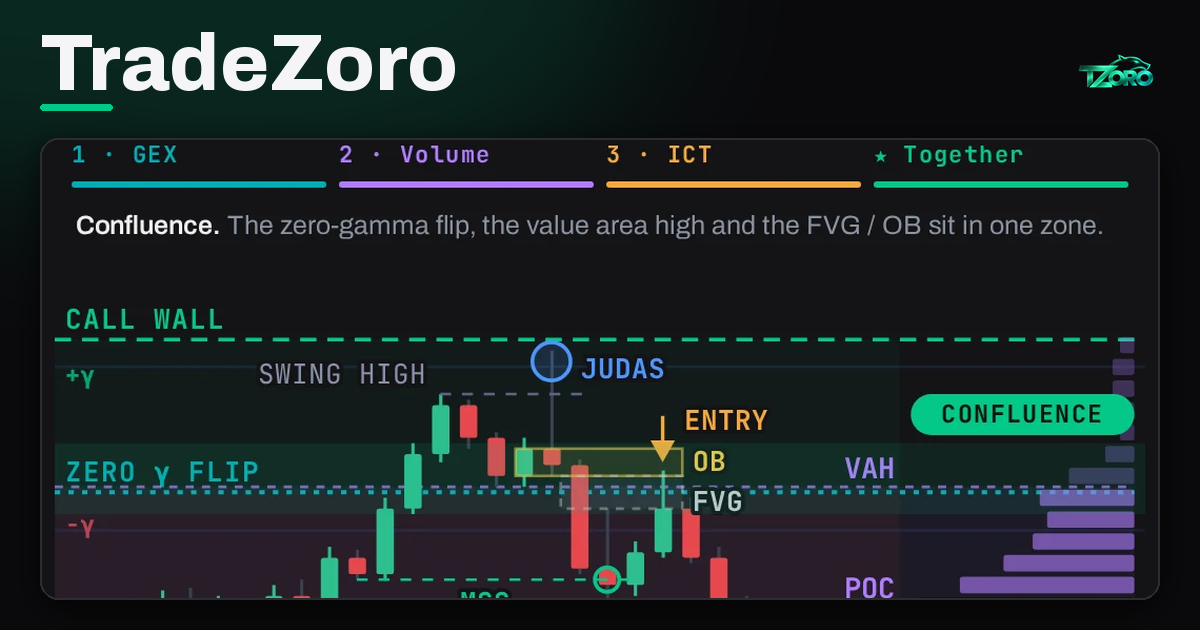
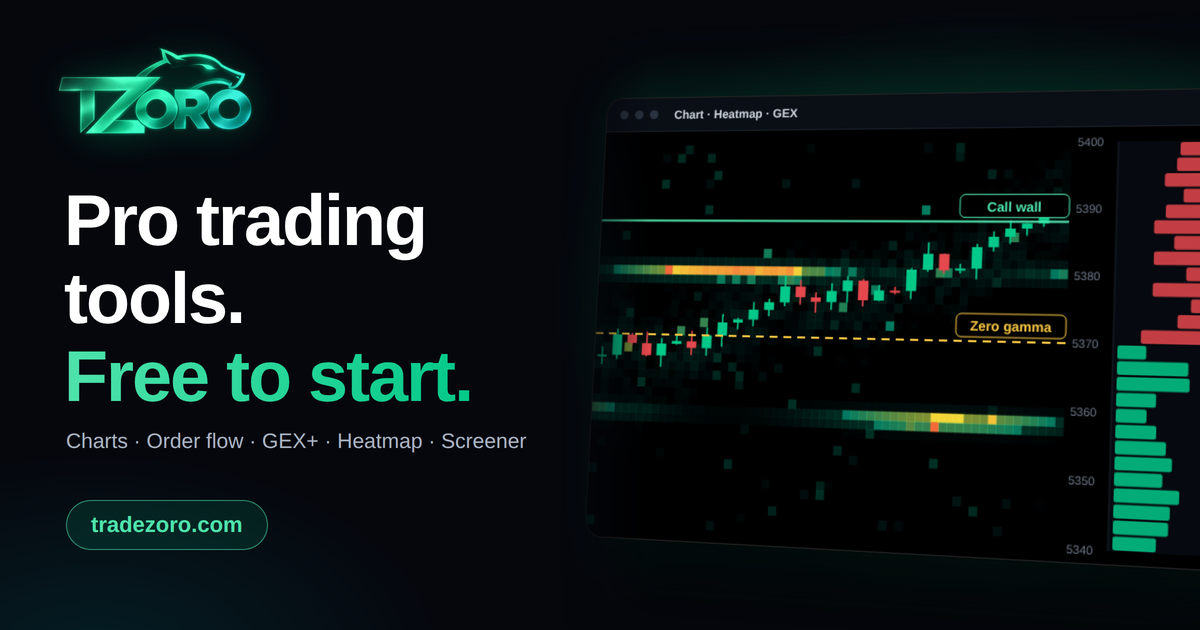
New homepage share image (OG) + regenerable template

diff --git a/tools/og/home-share.html b/tools/og/home-share.html
@@ -1,0 +1,55 @@
+<!doctype html><meta charset="utf-8">
+<style>
+*{box-sizing:border-box;margin:0}
+body{width:1200px;height:630px;overflow:hidden;background:#05070d;font-family:Inter,"Helvetica Neue",Arial,sans-serif;color:#fff;position:relative}
+.glow{position:absolute;inset:0;background:radial-gradient(620px 420px at 82% 48%,rgba(3,201,136,.22),transparent 70%),radial-gradient(500px 300px at 8% 105%,rgba(0,173,181,.14),transparent 70%)}
+.logo{position:absolute;left:50px;top:22px;width:210px;height:138px;object-fit:contain;filter:drop-shadow(0 0 18px rgba(3,201,136,.35))}
+h1{position:absolute;left:64px;top:182px;font-size:72px;line-height:78px;font-weight:800;letter-spacing:-2px}
+h1 em{font-style:normal;background:linear-gradient(90deg,#4fe3ac,#03c988);-webkit-background-clip:text;color:transparent}
+.sub{position:absolute;left:66px;top:430px;font-size:21px;color:#aab4c3;font-weight:500;white-space:nowrap}
+.pill{position:absolute;left:66px;top:500px;padding:11px 24px;border-radius:99px;border:1.5px solid rgba(79,227,172,.55);background:rgba(3,201,136,.12);color:#4fe3ac;font-size:22px;font-weight:700}
+.stage{position:absolute;left:560px;top:0;width:640px;height:630px;perspective:1600px;
+ -webkit-mask-image:linear-gradient(90deg,transparent 0,#000 90px);mask-image:linear-gradient(90deg,transparent 0,#000 90px)}
+.card{position:absolute;left:36px;top:95px;width:640px;height:440px;transform:rotateY(-14deg) rotateX(5deg) rotateZ(1deg);transform-origin:left center;
+ background:#000;border:1.5px solid rgba(255,255,255,.14);border-radius:18px;overflow:hidden;box-shadow:0 40px 80px rgba(0,0,0,.7),0 0 70px rgba(3,201,136,.22)}
+.bar{height:34px;background:#0a0e15;border-bottom:1px solid #1b222d;display:flex;align-items:center;gap:7px;padding:0 14px;font-size:12px;color:#7d8896}
+.bar i{width:9px;height:9px;border-radius:50%;background:#2a3340}
+.bar b{margin-left:10px;color:#cfd6e0;font-weight:600}
+svg{display:block}
+</style>
+<div class="glow"></div>
+<img class="logo" src="../../assets/images/logo-full.png">
+<h1>Pro trading<br>tools.<br><em>Free to start.</em></h1>
+<div class="sub">Charts · Order flow · GEX+ · Heatmap · Screener</div>
+<div class="pill">tradezoro.com</div>
+<div class="stage"><div class="card"><div class="bar"><i></i><i></i><i></i><b>Chart · Heatmap · GEX</b></div>
+<svg id="c" width="640" height="406" viewBox="0 0 640 406"></svg></div></div>
+<script>
+let s=7;const r=()=>(s=(s*16807)%2147483647)/2147483647;
+const W=760,H=406,CW=470,N=30,T0=14,bot=392,P=y=>T0+(1-y)*(bot-T0);
+let o='<rect width="640" height="406" fill="#000"/>';
+// heatmap band
+const heat=v=>v<.5?`rgba(0,${Math.round(90+v*200)},${Math.round(110+v*60)},${v*.5})`:v<.8?`rgba(${Math.round((v-.5)*600)},${Math.round(200)},${Math.round(160-(v-.5)*300)},${.4+v*.4})`:`rgba(255,${Math.round(230-(v-.8)*600)},60,.95)`;
+const cols=60,rows=44,cw=CW/cols,rh=(bot-T0)/rows;
+// price path
+let p=.5,path=[];for(let i=0;i<N;i++){p+= (r()-.47)*.12;p=Math.max(.2,Math.min(.85,p));path.push(p)}
+for(let i=0;i<cols;i++)for(let j=0;j<rows;j++){const y=1-j/rows,pc=path[Math.min(N-1,Math.floor(i/cols*N))];
+ let v=Math.exp(-Math.pow((y-pc)*9,2))*.35*r()+ (r()<.03?r()*.5:0);
+ [.68,.31].forEach(l=>{v+=Math.exp(-Math.pow((y-l)*40,2))*(.5+.4*Math.sin(i/9+l*9))});
+ v=Math.min(1,v);if(v>.06)o+=`<rect x="${i*cw}" y="${T0+j*rh}" width="${cw+.5}" height="${rh+.5}" fill="${heat(v)}"/>`}
+// candles
+let prev=path[0];const bw=CW/N;
+for(let i=0;i<N;i++){const c=path[i],op=prev,hi=Math.max(c,op)+r()*.03,lo=Math.min(c,op)-r()*.03,up=c>=op,col=up?'#03c988':'#e5484d';prev=c;
+ const x=i*bw+bw/2;o+=`<line x1="${x}" x2="${x}" y1="${P(hi)}" y2="${P(lo)}" stroke="${col}" stroke-width="1.6"/><rect x="${x-bw*.32}" y="${P(Math.max(c,op))}" width="${bw*.64}" height="${Math.max(2,Math.abs(P(c)-P(op)))}" fill="${col}"/>`}
+// GEX lines
+const gl=(y,t,c,d)=>`<line x1="0" x2="${CW}" y1="${P(y)}" y2="${P(y)}" stroke="${c}" stroke-width="2" ${d?'stroke-dasharray="8 6"':''}/><rect x="${CW-104}" y="${P(y)-26}" width="104" height="22" rx="5" fill="#000" stroke="${c}"/><text x="${CW-52}" y="${P(y)-10}" font-size="13" font-weight="700" fill="${c}" text-anchor="middle" font-family="Inter,Arial">${t}</text>`;
+o+=gl(.8,'Call wall','#4fe3ac')+gl(.5,'Zero gamma','#f5c542',1);
+// price axis ticks (plain ticks)
+for(let k=0;k<7;k++){const y=T0+k*(bot-T0)/6;o+=`<text x="${CW+6}" y="${y+4}" font-size="11" fill="#6b7685" font-family="Inter,Arial">${(5400-k*10)}</text>`}
+// DOM ladder
+const lx=CW+44,lw=96;o+=`<rect x="${lx}" y="${T0}" width="${lw}" height="${bot-T0}" fill="#06090f"/>`;
+const lr=26,lh=(bot-T0)/lr;for(let j=0;j<lr;j++){const a=j<lr/2,v=.25+r()*.75*(1-Math.abs(j-lr/2)/lr*1.2),w=v*(lw-8),col=a?'#e5484d':'#03c988';
+ o+=`<rect x="${lx+(a?lw-4-w:4)}" y="${T0+j*lh+1}" width="${w}" height="${lh-2}" fill="${col}" opacity=".85" rx="2"/>`}
+o+=`<line x1="${lx}" x2="${lx}" y1="${T0}" y2="${bot}" stroke="#1b222d"/>`;
+document.getElementById('c').innerHTML=o;
+</script>

diff --git a/index.html b/index.html
@@ -13,12 +13,12 @@
 <meta property="og:image:width" content="1200">
 <meta property="og:image:height" content="630">
 <meta property="og:image:type" content="image/png">
-<meta property="og:image:alt" content="TradeZoro share card: an illustrative chart with GEX, volume profile and ICT levels, with the TradeZoro logo">
+<meta property="og:image:alt" content="TradeZoro share card: the TradeZoro logo and the headline "Pro trading tools. Free to start." beside an illustrative candle chart with a heatmap band, a depth ladder and GEX levels">
 <meta name="twitter:card" content="summary_large_image">
 <meta name="twitter:title" content="TradeZoro — Learn ICT &amp; Smart Money Trading">
 <meta name="twitter:description" content="ICT concepts and SMT divergence, broken into a chapter-by-chapter curriculum — taught the way a trading desk would train a new analyst.">
 <meta name="twitter:image" content="https://tradezoro.com/assets/images/og/share/index.png?v=816">
-<meta name="twitter:image:alt" content="TradeZoro share card: an illustrative chart with GEX, volume profile and ICT levels, with the TradeZoro logo">
+<meta name="twitter:image:alt" content="TradeZoro share card: the TradeZoro logo and the headline "Pro trading tools. Free to start." beside an illustrative candle chart with a heatmap band, a depth ladder and GEX levels">
 <meta name="theme-color" content="#050506">
 <title>TradeZoro — Learn ICT & Smart Money Trading</title>
 <link rel="canonical" href="https://tradezoro.com/">
